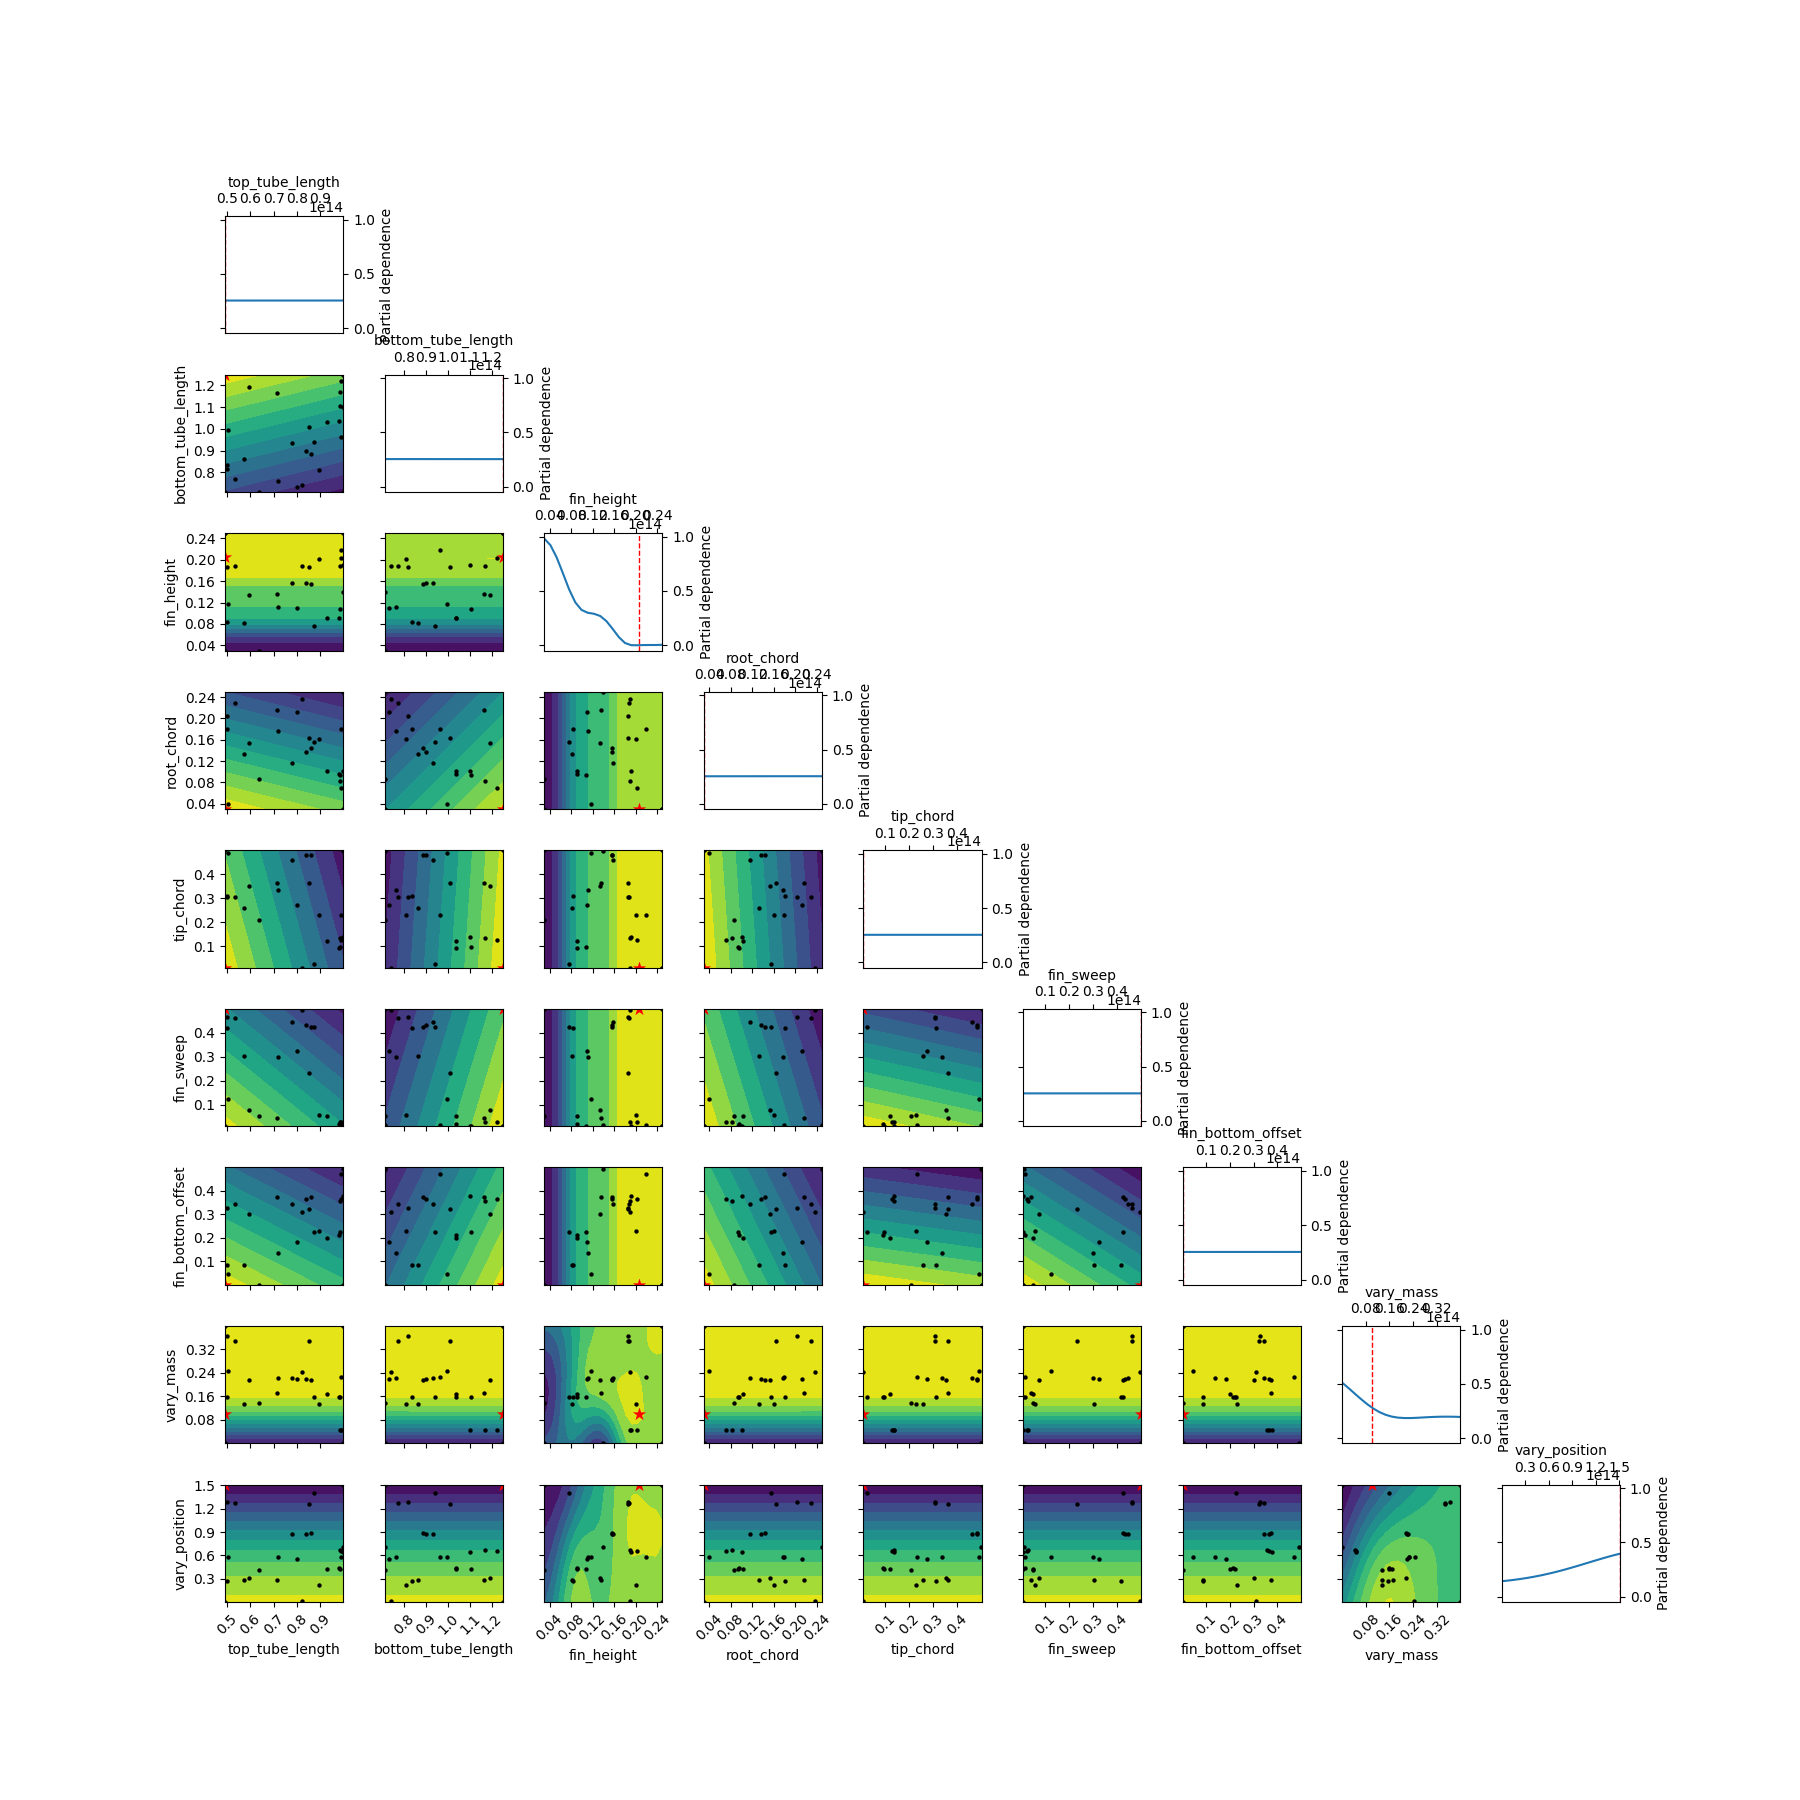
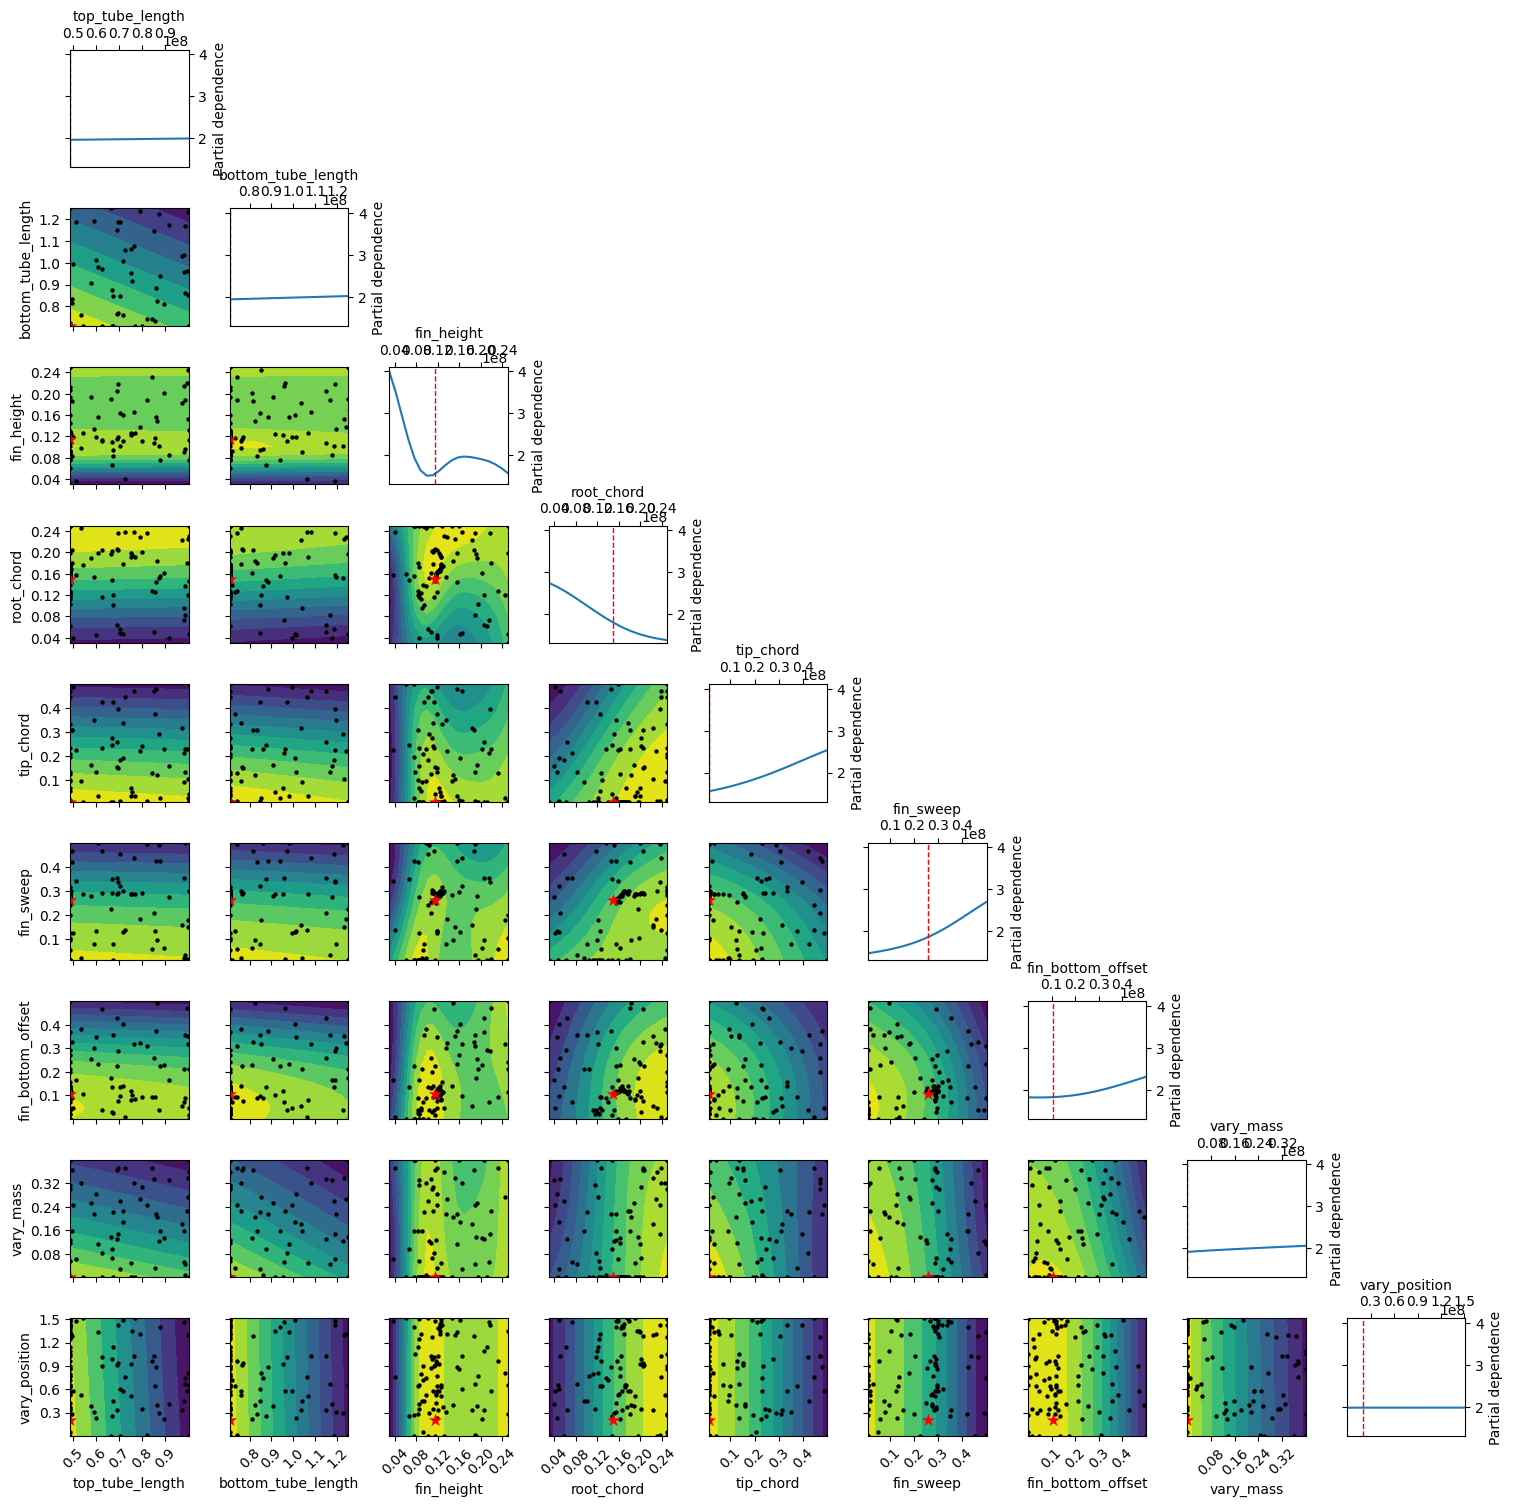
good params

diff --git a/Optimizer.py b/Optimizer.py
@@ -171,16 +171,16 @@ class Optimizer:
         # --- LOSS CALCULATION ---
         loss = ((abs(apogee - TARGET_ALTITUDE) / 20.0) ** 2) * 100000
 
-        if min_stab < 1.5:
-            loss += ((1.5 - min_stab) + 10000000) ** 2
-        if avg_stab > 2.1:
-            loss += ((avg_stab - 2.1) ** 2) * 10000
+        if min_stab < 1.6:
+            loss += ((1.6 - min_stab) + 10000) ** 2
+        if avg_stab > 2:
+            loss += ((avg_stab - 2) + 100) ** 2
         if fin_sweep > 2 * root_chord:
-            loss += ((fin_sweep - root_chord) ** 2)* 100
+            loss += ((fin_sweep - root_chord) + 10000) ** 2
         if tip_chord > 2 * root_chord:
-            loss += ((tip_chord - root_chord) ** 2) * 100
+            loss += ((tip_chord - root_chord) + 10000) ** 2
         if rail_exit_vel < 13.0: 
-            loss += ((13.0 - rail_exit_vel) + 1000000) ** 2
+            loss += ((13.0 - rail_exit_vel) + 10000) ** 2
 
         return loss
 
@@ -214,19 +214,33 @@ class Optimizer:
         # Define physical constraints from your search space so Scipy doesn't go out of bounds
         bounds = [(dim.low, dim.high) for dim in self.space]
 
-        # Wrapper to enforce strict bounds geometrically 
-        def clamped_objective(x):
-            clamped_x = []
+        # Wrapper with an "Electric Fence" penalty
+        def bounded_objective(x):
+            penalty = 0.0
+            is_out_of_bounds = False
+            
+            # 1. Check every variable against its min/max limits
             for i, val in enumerate(x):
                 low, high = bounds[i]
-                if val < low: val = low
-                if val > high: val = high
-                clamped_x.append(val)
-            return self.calculate_loss(clamped_x, TARGET_ALTITUDE)
+                if val < low:
+                    # Penalize based on how far out of bounds it went
+                    penalty += (low - val) * 10000000
+                    is_out_of_bounds = True
+                elif val > high:
+                    penalty += (val - high) * 10000000
+                    is_out_of_bounds = True
+            
+            # 2. If it stepped out of bounds, DO NOT run the simulation.
+            # Just return the massive penalty so the optimizer retreats.
+            if is_out_of_bounds:
+                return 1000000000.0 + penalty
+
+            # 3. If it is safely inside the bounds, run the actual physics
+            return self.calculate_loss(x, TARGET_ALTITUDE)
 
         # Run the geometric walk
         result = minimize(
-            clamped_objective, 
+            bounded_objective, 
             x0=start_params, 
             method='Nelder-Mead', 
             options={

diff --git a/main.py b/main.py
@@ -17,7 +17,6 @@ print("Initializing OpenRocket...")
 try:
     with orhelper.OpenRocketInstance(str(JAR_PATH)) as instance:
         print("✅ SUCCESS: OpenRocket backend is connected and ready!")
-
         # Load the rocket
         if not ROCKET_FILE.exists():
             print(f"❌ Warning: Could not find {ROCKET_FILE}")
@@ -27,10 +26,11 @@ try:
             # orh = orhelper.Helper(instance)
             # doc = orh.load_doc(str(ROCKET_FILE))
             # sim = doc.getSimulation(0)
+
             Opt = Optimizer(instance, str(ROCKET_FILE))
 
             # 1. Parachute Drop (Find the safe zone)
-            best_stage1_params, s1_apogee = Opt.run_stage1_global(TARGET_ALTITUDE, iterations=60)
+            best_stage1_params, s1_apogee = Opt.run_stage1_global(TARGET_ALTITUDE, iterations=100)
 
             # 2. Mountain Hike (Get to the absolute peak)
             # We pass the exact parameters from Stage 1 into Stage 2
